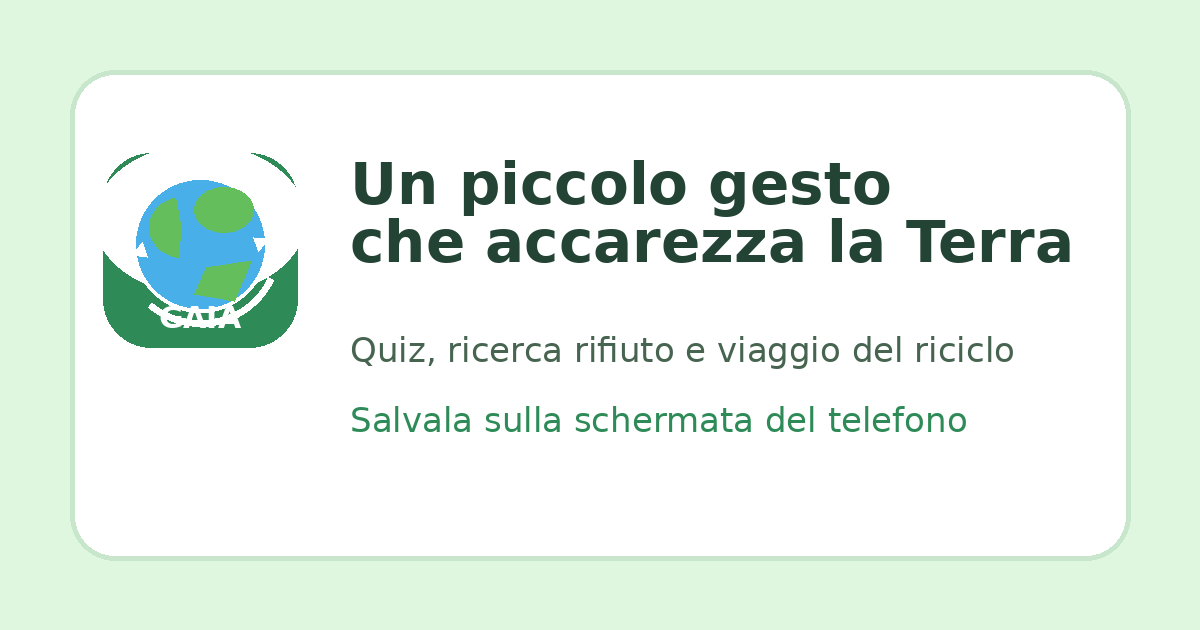
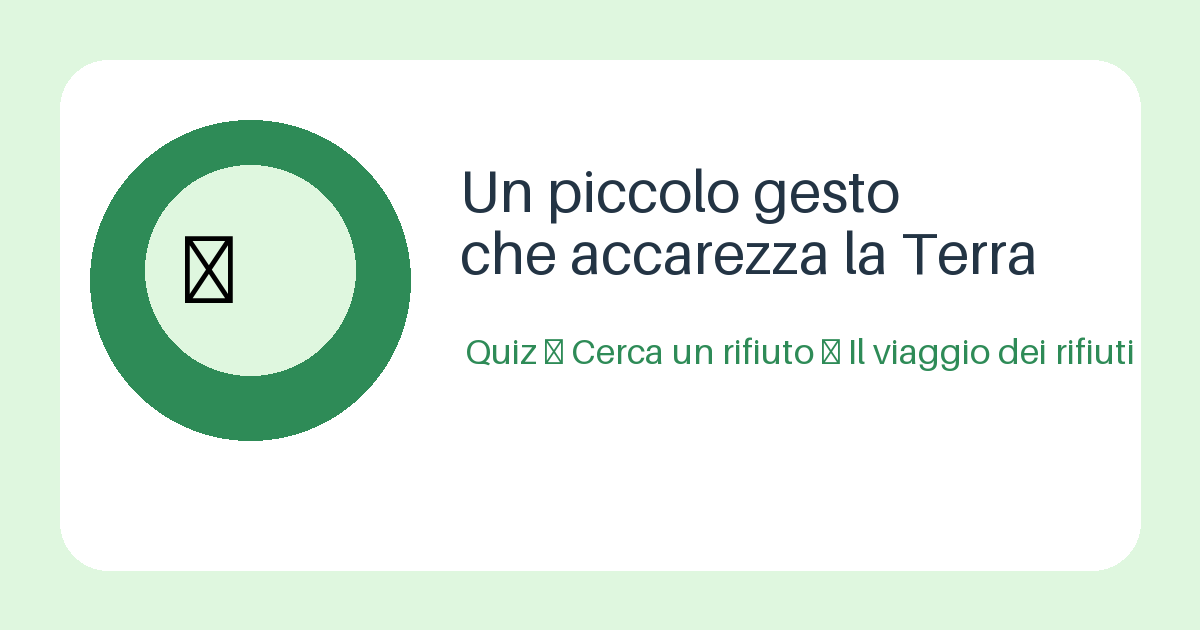
Add files via upload

Changed region(s): [[0.0308, 0.0905, 0.9558, 0.9048]]

diff --git a/index.html b/index.html
@@ -3,6 +3,13 @@
 <head>
 <meta charset="UTF-8">
 <meta name="viewport" content="width=device-width, initial-scale=1.0">
+<meta name="theme-color" content="#2e8b57">
+<meta name="apple-mobile-web-app-capable" content="yes">
+<meta name="apple-mobile-web-app-title" content="Gaia Quiz">
+<meta name="apple-mobile-web-app-status-bar-style" content="default">
+<link rel="manifest" href="./manifest.webmanifest">
+<link rel="icon" type="image/png" sizes="192x192" href="./icon-192.png">
+<link rel="apple-touch-icon" href="./icon-192.png">
 <title>Un piccolo gesto che accarezza la Terra</title>
 <style>
 body{font-family:Arial,sans-serif;background:linear-gradient(#dff7df,#f7fff7);margin:0;padding:20px;text-align:center;color:#234}
@@ -22,6 +29,7 @@ button:disabled{opacity:.75;cursor:not-allowed}
 input{width:90%;max-width:440px;padding:12px;border-radius:10px;border:1px solid #bbb;font-size:1em}
 .searchItem{padding:10px;border-bottom:1px solid #ddd;text-align:left}
 .journeyBox{margin-top:16px;padding:18px;border-radius:18px;background:#f2fff2;box-shadow:inset 0 0 0 1px #cfe8cf}.journeyEmoji{font-size:3em;margin:5px}.journeyOptions{display:grid;grid-template-columns:1fr;gap:10px;margin-top:15px}.journeyBtn{background:#2e8b57;color:white}.journeyResult{margin-top:18px;padding:15px;border-radius:14px;font-size:1.05em;line-height:1.45}.journeyOk{background:#e7f7ec}.journeyNo{background:#fff0e6}.journeyNote{font-size:.95em;color:#456;margin-top:10px}
+.installHint{margin:16px auto 6px;padding:12px 14px;border-radius:16px;background:#eef9ef;border:1px solid #cfe8cf;color:#2b5d3b;font-size:.95em;line-height:1.35}.appIconPreview{width:62px;height:62px;border-radius:18px;box-shadow:0 4px 12px rgba(0,0,0,.18);vertical-align:middle;margin-right:8px}
 @media(max-width:600px){.buttons{grid-template-columns:1fr}h1{font-size:1.55em}.card{padding:18px}}
 </style>
 </head>
@@ -31,6 +39,7 @@ input{width:90%;max-width:440px;padding:12px;border-radius:10px;border:1px solid
 <h1>🌍 Un piccolo gesto che accarezza la Terra</h1>
 <p>Impara giocando dove mettere ogni rifiuto.</p>
 <p class="small">Ogni scelta corretta aiuta la Terra: meno errori, più riciclo, più cura.</p>
+<div class="installHint"><img class="appIconPreview" src="./icon-192.png" alt="Icona app">Puoi salvare questa app sulla schermata del telefono: apri il menu del browser e scegli <b>Aggiungi alla schermata Home</b>.</div>
 </div>
 <div id="modeSelect">
 <p><b>Scegli cosa fare:</b></p>
@@ -269,6 +278,16 @@ function scegliGesto(tipo){
   box.innerHTML = "🌱 " + messaggi[tipo];
 }
 
+</script>
+
+<script>
+if ('serviceWorker' in navigator) {
+  window.addEventListener('load', function(){
+    navigator.serviceWorker.register('./sw.js').catch(function(err){
+      console.log('Service worker non registrato:', err);
+    });
+  });
+}
 </script>
 </body>
 </html>

diff --git a/sw.js b/sw.js
@@ -1,10 +1,11 @@
-const CACHE_NAME = 'gaia-v1-2';
+const CACHE_NAME = 'gaia-app-v1-icona-20260430';
 const APP_SHELL = [
   './',
   './index.html',
   './manifest.webmanifest',
   './icon-192.png',
   './icon-512.png',
+  './maskable-icon-512.png',
   './social-preview.png'
 ];
 
@@ -25,37 +26,13 @@ self.addEventListener('activate', event => {
 
 self.addEventListener('fetch', event => {
   if (event.request.method !== 'GET') return;
-
-  const requestUrl = new URL(event.request.url);
-  const isSameOrigin = requestUrl.origin === self.location.origin;
-  const isHtmlRequest = event.request.mode === 'navigate' ||
-    (event.request.headers.get('accept') || '').includes('text/html');
-
-  // Per la pagina principale: prova prima la rete, così gli aggiornamenti arrivano subito.
-  if (isSameOrigin && isHtmlRequest) {
-    event.respondWith(
-      fetch(event.request)
-        .then(response => {
-          const copy = response.clone();
-          caches.open(CACHE_NAME).then(cache => cache.put(event.request, copy));
-          return response;
-        })
-        .catch(() => caches.match(event.request).then(cached => cached || caches.match('./index.html')))
-    );
-    return;
-  }
-
-  // Per icone e file statici: usa la cache, ma aggiorna in sottofondo quando possibile.
-  if (isSameOrigin) {
-    event.respondWith(
-      caches.match(event.request).then(cached => {
-        const networkFetch = fetch(event.request).then(response => {
-          const copy = response.clone();
-          caches.open(CACHE_NAME).then(cache => cache.put(event.request, copy));
-          return response;
-        }).catch(() => cached);
-        return cached || networkFetch;
+  event.respondWith(
+    fetch(event.request)
+      .then(response => {
+        const copy = response.clone();
+        caches.open(CACHE_NAME).then(cache => cache.put(event.request, copy));
+        return response;
       })
-    );
-  }
+      .catch(() => caches.match(event.request).then(cached => cached || caches.match('./index.html')))
+  );
 });
